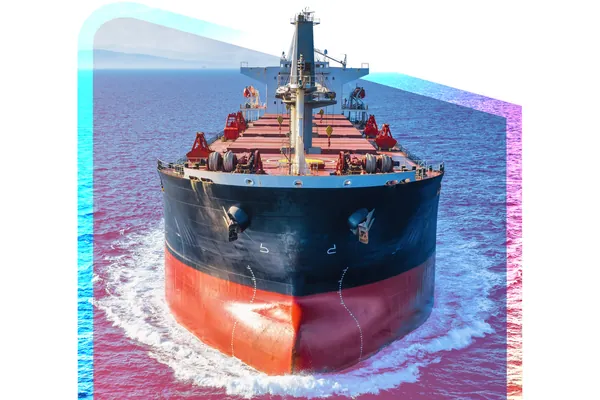
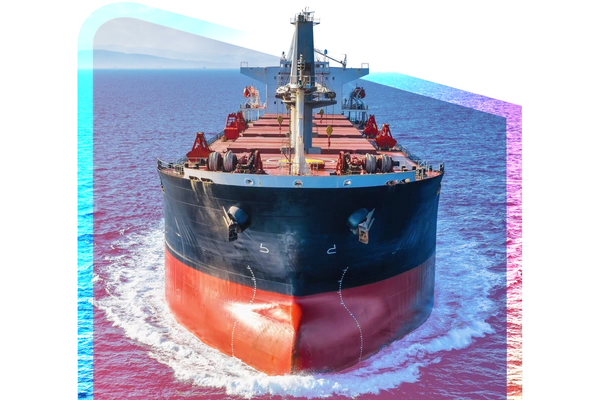
Industry tiles: artwork on top, white card body continuing seamlessly from it
The industry artwork's white background is converted to transparency (artwork otherwise unchanged) and a white card body slides up behind the lower part of each artwork.

Changed region(s): [[0.12, 0.57, 0.15, 0.99], [0.12, 0.33, 0.15, 0.54]]

diff --git a/index.html b/index.html
@@ -64,10 +64,14 @@ layout: default
                 <li class="flex">
                     <a href="{{ '/courses/' | relative_url }}?industry={{ industry.id }}#results-title" data-industry="{{ industry.id }}"
                        class="group flex w-full flex-col rounded-xl focus-visible:outline-none focus-visible:ring-4 focus-visible:ring-abs-blue focus-visible:ring-offset-4 focus-visible:ring-offset-transparent">
-                        <!-- The artwork is the card: no box, border or shadow around it. Its white background is blended
-                             (multiply) into the section background, so only the artwork's own shapes show. -->
-                        {% include training-picture.html name=industry.image widths="600,960" width="1458" height="972" sizes="(min-width: 1280px) 400px, (min-width: 768px) 33vw, 100vw" class="block w-full h-auto mix-blend-multiply transition-transform duration-500 group-hover:scale-[1.03] motion-reduce:transition-none motion-reduce:group-hover:scale-100" %}
-                        <div class="mt-auto px-6 pb-2 pt-4 text-center">
+                        <!-- One card: the artwork is the top (its white background is transparent, so only its own shapes
+                             show), and a white card body continues from it. The body slides up behind the lower part of the
+                             artwork (card_top in _data/industries.yml, % of the artwork's height) and spans the artwork's own
+                             width, so it fills the cut corners with no seam. Artwork is 1458 x 972, so its height is 66.67% of the width. -->
+                        {%- assign card_lift = 100 | minus: industry.card_top | times: 0.6667 -%}
+                        {% include training-picture.html name=industry.image fallback="png" widths="600,960" width="1458" height="972" sizes="(min-width: 1280px) 400px, (min-width: 768px) 33vw, 100vw" class="relative z-10 block w-full h-auto" %}
+                        <div class="mx-[12.9%] mb-2 flex-1 rounded-b-xl bg-white px-4 pb-7 text-center shadow-[0_14px_22px_-14px_rgba(0,42,78,0.35)] transition-shadow duration-300 group-hover:shadow-[0_18px_28px_-14px_rgba(0,42,78,0.45)]"
+                             style="margin-top: -{{ card_lift }}%; padding-top: calc({{ card_lift }}% + 1.25rem);">
                             <span class="block w-8 h-1 bg-abs-red mx-auto mb-3"></span>
                             <h3 class="text-abs-blue text-xl font-bold">{{ industry.label | escape }}</h3>
                             <span class="mt-3 inline-flex min-h-[32px] items-center gap-1 rounded-full bg-abs-red px-4 text-xs font-bold uppercase tracking-wider text-white transition-colors group-hover:bg-abs-red-dark">View Courses <span class="material-symbols-outlined text-[18px] transition-transform group-hover:translate-x-1 motion-reduce:transition-none" aria-hidden="true">arrow_forward</span></span>

diff --git a/_includes/training-picture.html b/_includes/training-picture.html
@@ -3,11 +3,13 @@
   name: file prefix, such as "marine"; widths: comma-separated saved widths, smallest first ("600,960");
   width/height: the original's size (reserves space so the layout doesn't jump); sizes: the img sizes attribute;
   class: classes for the img; priority=true loads it first (heroes), otherwise it loads lazily;
-  hidden=true hides a purely decorative background from assistive technology.
+  hidden=true hides a purely decorative background from assistive technology; fallback: the non-WebP format
+  ("jpg" by default, "png" for artwork with a transparent background).
   Every graphic is illustrative or decorative, so alt is empty.
 {%- endcomment -%}
 {%- assign tp_widths = include.widths | split: "," -%}
+{%- assign tp_ext = include.fallback | default: "jpg" -%}
 {%- assign tp_base = "/assets/images/training/" | relative_url | append: include.name -%}
 {%- capture tp_webp -%}{% for w in tp_widths %}{{ tp_base }}-{{ w }}.webp {{ w }}w{% unless forloop.last %}, {% endunless %}{% endfor %}{%- endcapture -%}
-{%- capture tp_jpg -%}{% for w in tp_widths %}{{ tp_base }}-{{ w }}.jpg {{ w }}w{% unless forloop.last %}, {% endunless %}{% endfor %}{%- endcapture -%}
-<picture{% if include.hidden %} aria-hidden="true"{% endif %}><source type="image/webp" srcset="{{ tp_webp }}" sizes="{{ include.sizes }}"><img src="{{ tp_base }}-{{ tp_widths[0] }}.jpg" srcset="{{ tp_jpg }}" sizes="{{ include.sizes }}" width="{{ include.width }}" height="{{ include.height }}" alt=""{% if include.priority %} fetchpriority="high"{% else %} loading="lazy"{% endif %} decoding="async" class="{{ include.class }}"></picture>
+{%- capture tp_jpg -%}{% for w in tp_widths %}{{ tp_base }}-{{ w }}.{{ tp_ext }} {{ w }}w{% unless forloop.last %}, {% endunless %}{% endfor %}{%- endcapture -%}
+<picture{% if include.hidden %} aria-hidden="true"{% endif %}><source type="image/webp" srcset="{{ tp_webp }}" sizes="{{ include.sizes }}"><img src="{{ tp_base }}-{{ tp_widths[0] }}.{{ tp_ext }}" srcset="{{ tp_jpg }}" sizes="{{ include.sizes }}" width="{{ include.width }}" height="{{ include.height }}" alt=""{% if include.priority %} fetchpriority="high"{% else %} loading="lazy"{% endif %} decoding="async" class="{{ include.class }}"></picture>

diff --git a/PROJECT-NOTES.md b/PROJECT-NOTES.md
@@ -34,7 +34,7 @@ Notes:
 - Many files use Windows line endings (CRLF). Keep them as they are and save files as UTF-8 without a byte-order mark.
 - Accessibility target is WCAG 2.2 AA. UI changes have been reviewed with the accessibility-agents specialists (contrast, ARIA, live regions, screen reader) and axe-core. Reports are kept locally in `.a11y-history/` (not committed).
 - Brand rules come from the ABS brand guidelines: ABS Blue `#002A4E`, ABS Red `#DA1F33`, secondary colors in `_includes/head.html`, AP style for copy, and title case on buttons.
-- ABS training graphics (`assets/images/training/`) are shown as delivered, never recolored or cropped through their shapes. The industry and Setting The Standard artwork sits on white, which matches its white background. Text never goes directly on the header banner or the colorful pattern: the home hero text sits on a solid navy panel (on phones, below the banner) and the newsletter text on a solid navy card. White text on the blue pattern needs the navy wash in `_includes/page-header-bg.html`.
+- ABS training graphics (`assets/images/training/`) are shown as delivered, never recolored or cropped through their shapes. Each Training by Industry tile is one card: the artwork (transparent background) is the top and a white card body continues from it, sliding up behind the artwork to `card_top` in `_data/industries.yml` so there's no seam. The Setting The Standard artwork sits on white, which matches its white background. Text never goes directly on the header banner or the colorful pattern: the home hero text sits on a solid navy panel (on phones, below the banner) and the newsletter text on a solid navy card. White text on the blue pattern needs the navy wash in `_includes/page-header-bg.html`.
 ## Site structure
 
 | Path | What it is |
@@ -64,7 +64,7 @@ Notes:
 | `assets/js/course-catalog.js` | Loads the all-courses feed, merges the course pages and matches search words |
 | `assets/js/catalog-page.js`, `assets/js/course-view.js` | Page logic for `/courses/` and `/courses/view/` |
 | `assets/js/analytics.js` | Sends site events to the GTM data layer |
-| `assets/images/training/` | ABS training graphics from the graphics team (November 2026), each as WebP and JPEG at two or three widths: `marine`, `offshore`, `government` and `cyber` (industry artwork; Cyber is saved for a future tile), `setting-standard`, `header-banner`, and the tile patterns `bg-grey`, `bg-blue` and `bg-colorful`. Originals aren't stored here; ask graphics for them |
+| `assets/images/training/` | ABS training graphics from the graphics team (November 2026), each as WebP plus a JPEG fallback at two or three widths: `marine`, `offshore`, `government` and `cyber` (industry artwork, PNG fallback; their white background was converted to transparency, the artwork is otherwise unchanged; Cyber is saved for a future tile), `setting-standard`, `header-banner`, and the tile patterns `bg-grey`, `bg-blue` and `bg-colorful`. Originals aren't stored here; ask graphics for them |
 | `_includes/training-picture.html` | Responsive `<picture>` for those graphics (WebP with JPEG fallback, width/height set, lazy unless `priority`) |
 | `_includes/page-header-bg.html` | Blue tile pattern plus navy wash behind page headers (Course Catalog, Contact Us, Thank You, Cookie Policy, no-photo course pages, `/courses/view/`) |
 | `assets/images/courses/` | Course photos copied from the portal by the sync: `<course id>.jpg` (800?400) and `<course id>-400.jpg` (400?200). Don't edit by hand |
